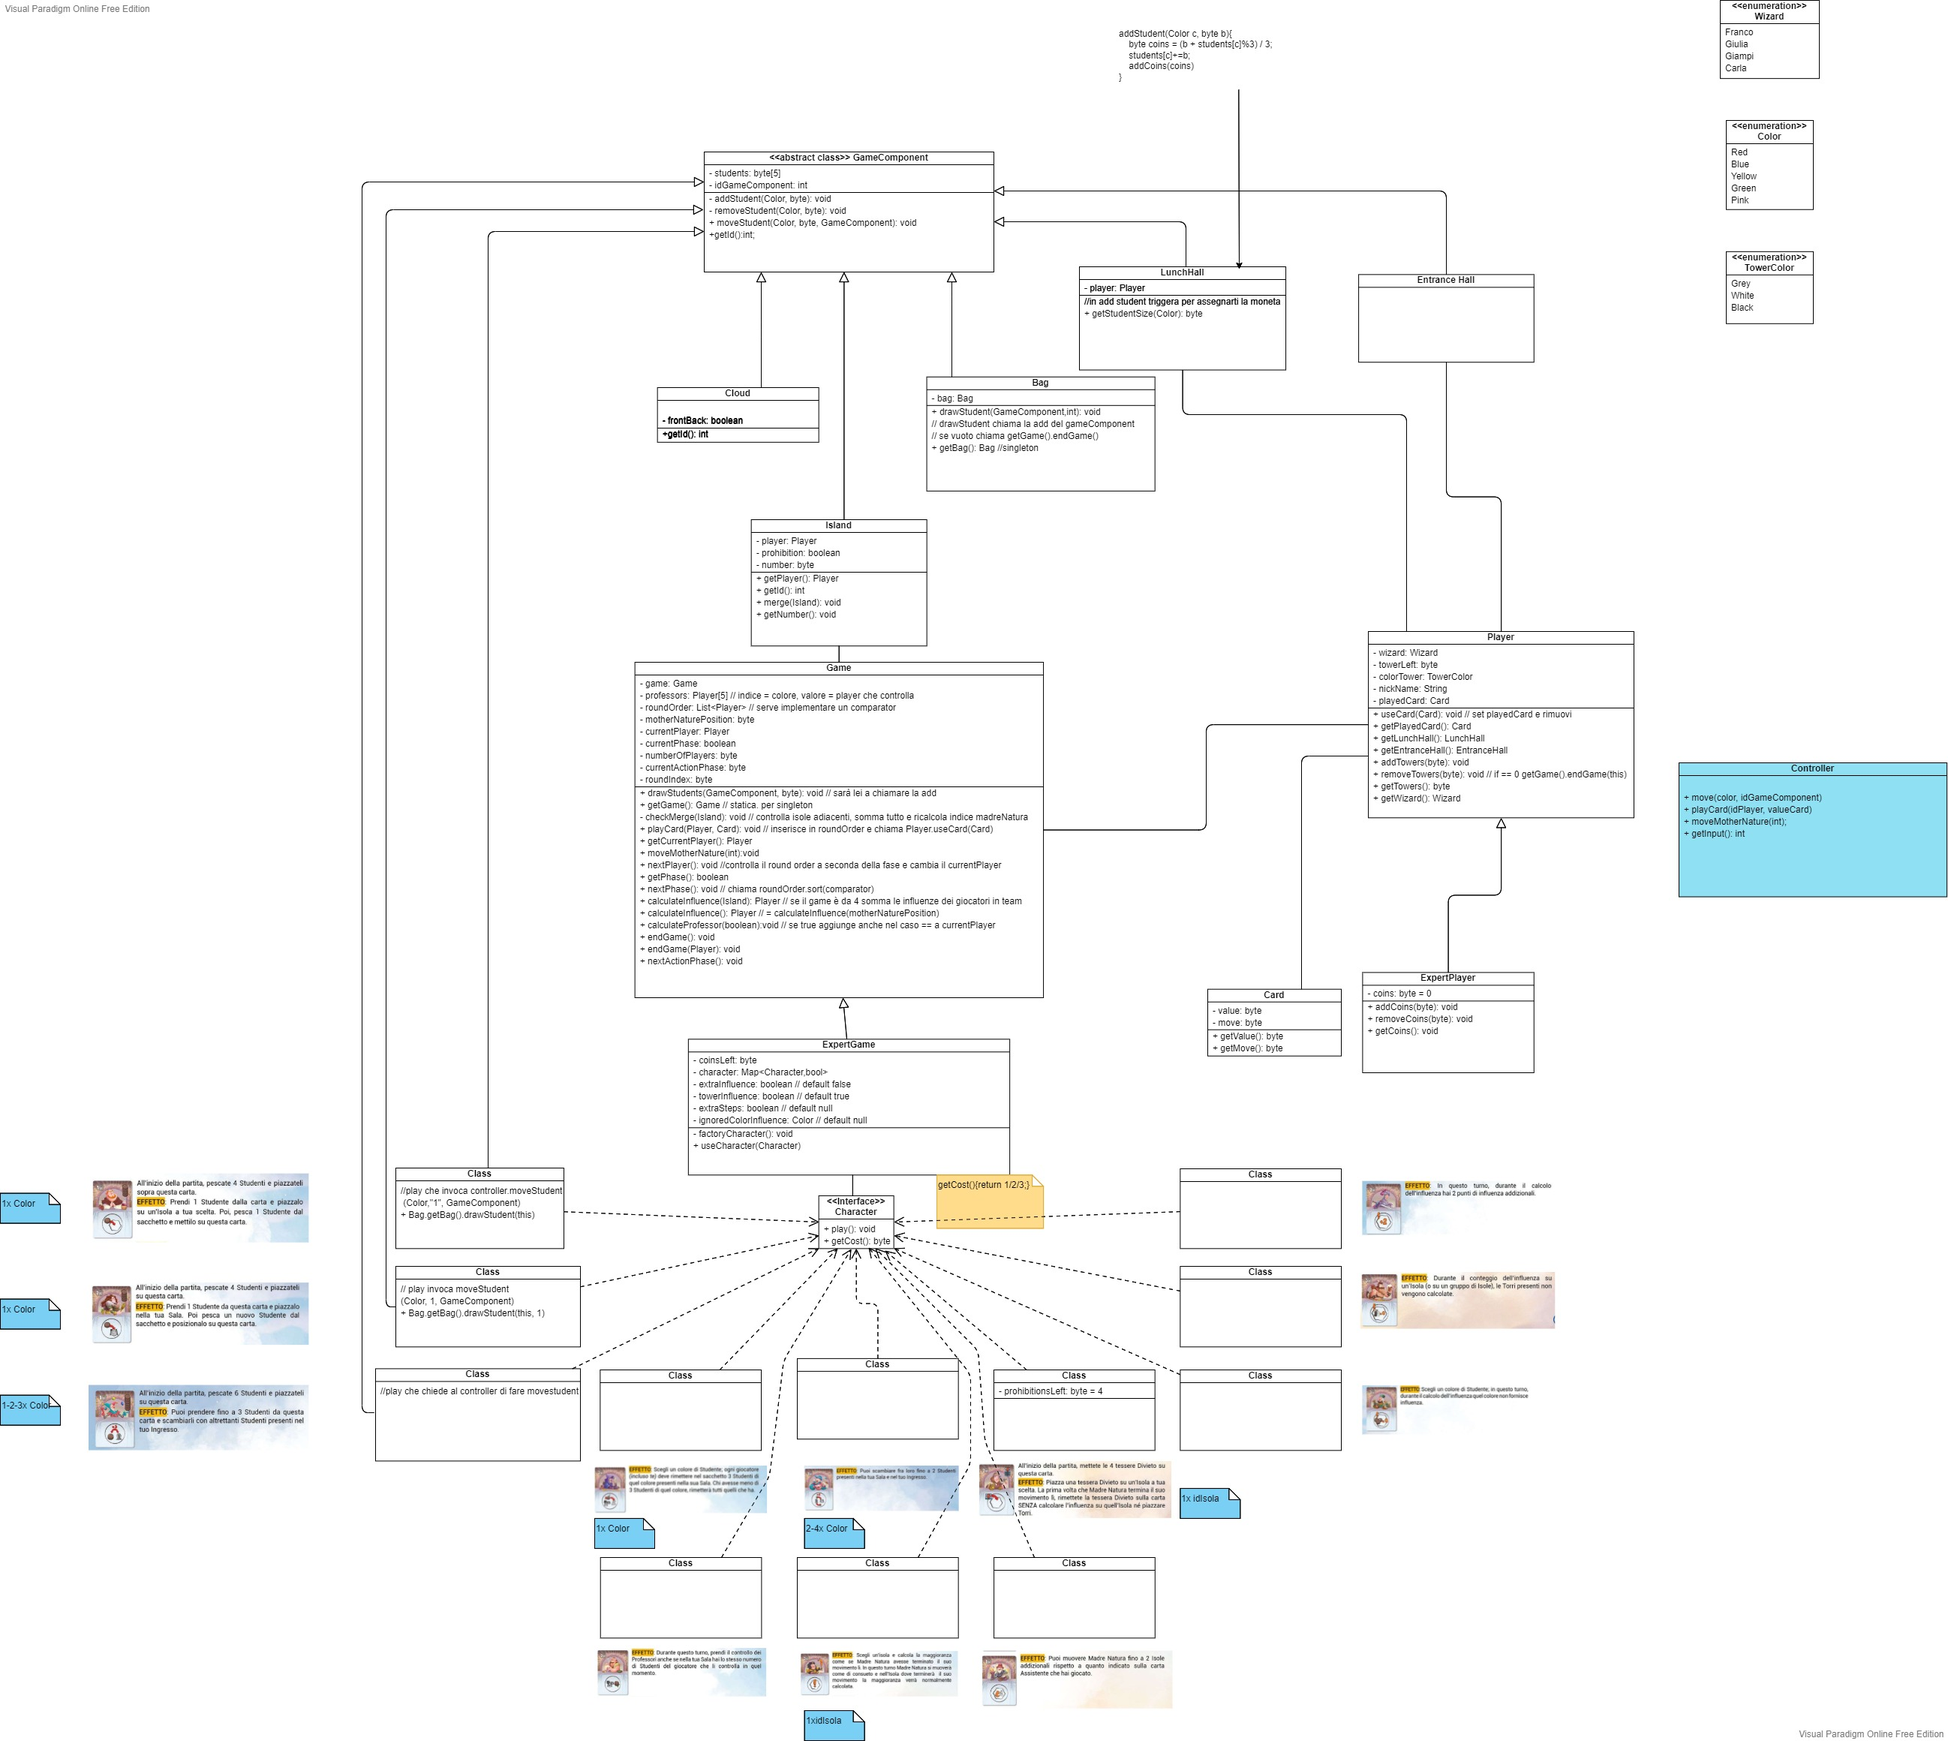
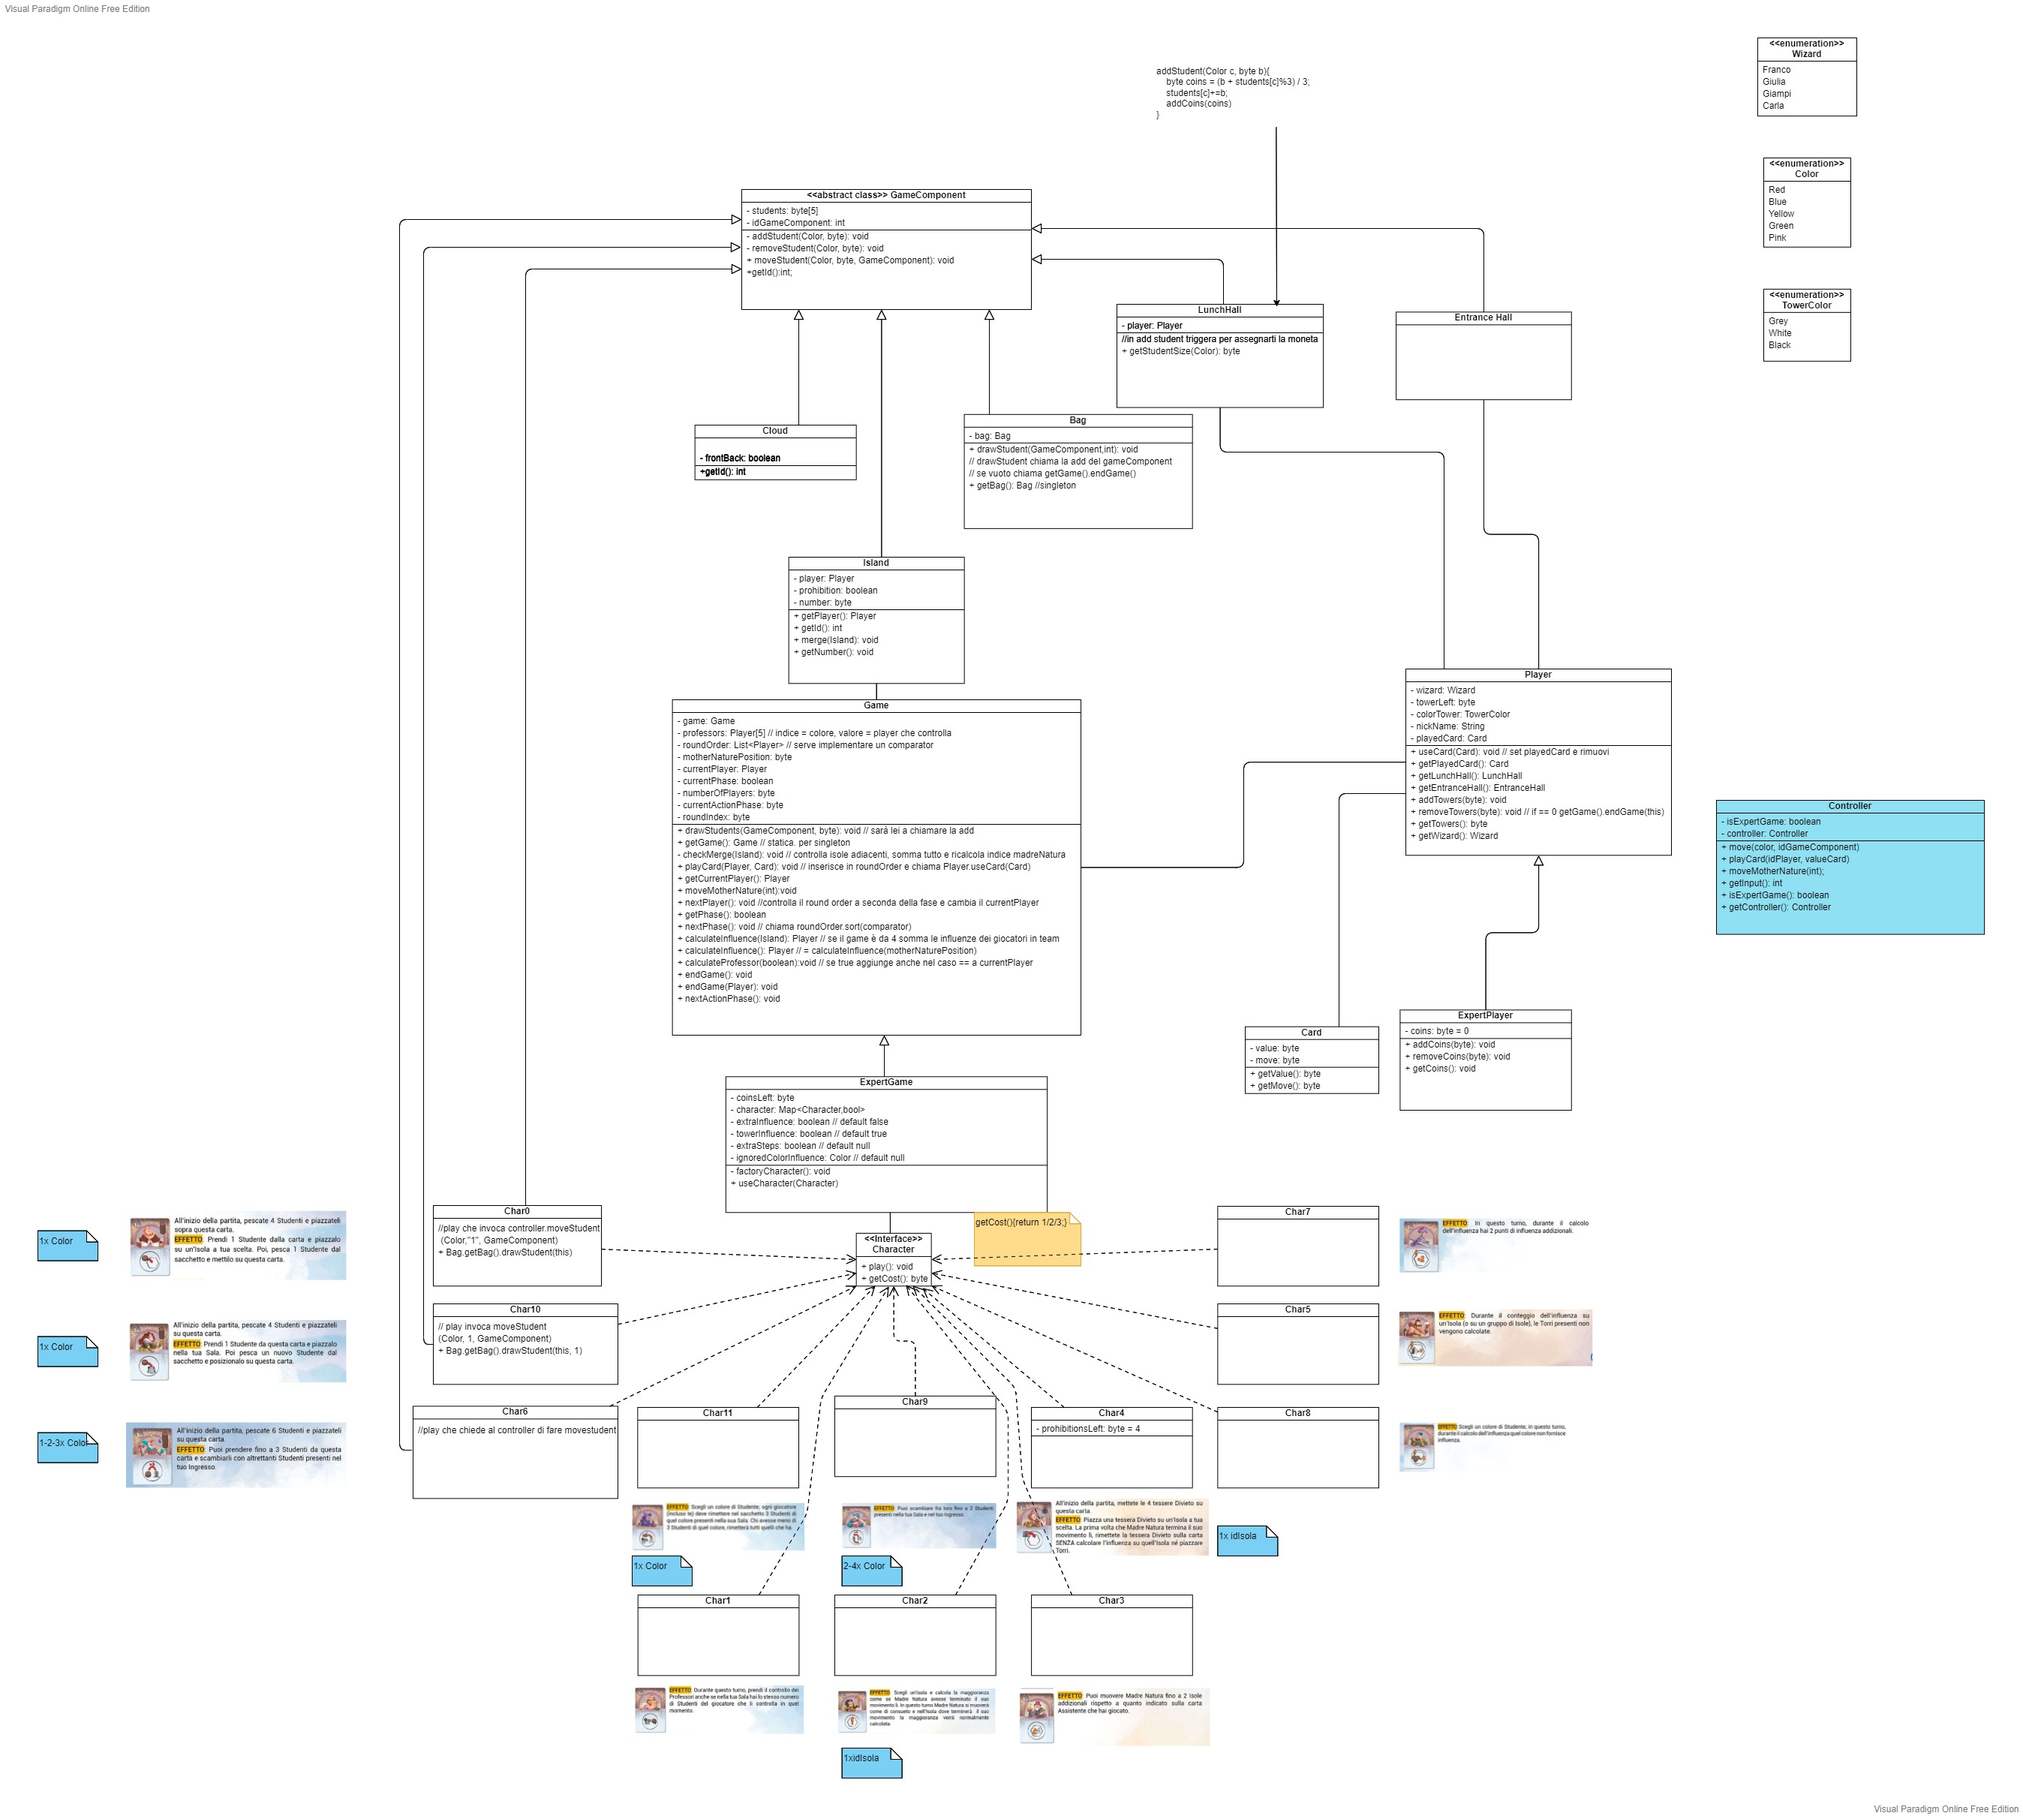
new methods

diff --git a/src/main/java/it/polimi/ingsw/ExpertGame.java b/src/main/java/it/polimi/ingsw/ExpertGame.java
@@ -1,12 +1,68 @@
 package it.polimi.ingsw;
 
+import it.polimi.ingsw.exceptions.NotEnoughCoinsException;
+
 import java.util.Map;
 
-public class ExpertGame extends Game{
+public class ExpertGame extends Game {
     private byte coinsLeft;
-    private Map<Character,Boolean> characters;
+    private Map<Character, Boolean> characters;
     private boolean extraInfluence; //di default falso
     private boolean towerInfluence;// default true
     private boolean extraSteps; //default false
     private Color ignoredColorInfluence;
+
+    public void addCoinsToPlayer(ExpertPlayer player, byte coins) throws NotEnoughCoinsException {
+        if (coinsLeft == 0) throw new NotEnoughCoinsException();
+        else if (coinsLeft < coins) {
+            player.addCoins(coinsLeft);
+            coinsLeft = 0;
+        } else {
+            player.addCoins(coins);
+            coinsLeft -= coins;
+        }
+    }
+
+    public static ExpertGame getGame() {
+        if (game == null)
+            return new ExpertGame();
+        else return (ExpertGame) game;
+    }
+
+    public void addCoins(byte coins) {
+        this.coinsLeft += coins;
+    }
+
+    public boolean isExtraInfluence() {
+        return extraInfluence;
+    }
+
+    public void setExtraInfluence(boolean extraInfluence) {
+        this.extraInfluence = extraInfluence;
+    }
+
+    public boolean isTowerInfluence() {
+        return towerInfluence;
+    }
+
+    public void setTowerInfluence(boolean towerInfluence) {
+        this.towerInfluence = towerInfluence;
+    }
+
+    public boolean isExtraSteps() {
+        return extraSteps;
+    }
+
+    public void setExtraSteps(boolean extraSteps) {
+        this.extraSteps = extraSteps;
+    }
+
+    public Color getIgnoredColorInfluence() {
+        return ignoredColorInfluence;
+    }
+
+    public void setIgnoredColorInfluence(Color ignoredColorInfluence) {
+        this.ignoredColorInfluence = ignoredColorInfluence;
+    }
+
 }

diff --git a/src/main/java/it/polimi/ingsw/LunchHall.java b/src/main/java/it/polimi/ingsw/LunchHall.java
@@ -13,10 +13,7 @@ public class LunchHall extends GameComponent{
     @Override
     public void addStudents(byte color, byte number) {
         super.addStudents(color, number);
-        //if(Controller.getController().isExpert()) {
-        byte coins = (byte) ((number + getStudents()[color]%3) / 3);
-        ((ExpertPlayer)player).addCoins(coins);
-        //}
+        //byte coins = (byte) ((number + getStudents()[color]%3) / 3
     }
 
     public byte getStudentSize(Color color) {

diff --git a/src/main/java/it/polimi/ingsw/character/Char0.java b/src/main/java/it/polimi/ingsw/character/Char0.java
@@ -1,11 +1,17 @@
 package it.polimi.ingsw.character;
 
-public class Char0 implements Character {
-    private byte prohibitionsLeft = 4;
+import it.polimi.ingsw.Bag;
+import it.polimi.ingsw.GameComponent;
+
+public class Char0 extends GameComponent implements Character{
+
+    public Char0(int id) {
+        super(id);
+        Bag.getBag().drawStudent(this, 4);
+    }
 
     @Override
     public void play() {
-        prohibitionsLeft--;
     }
 
     @Override

diff --git a/src/main/java/it/polimi/ingsw/character/Char10.java b/src/main/java/it/polimi/ingsw/character/Char10.java
@@ -1,6 +1,14 @@
 package it.polimi.ingsw.character;
 
-public class Char10 implements Character {
+import it.polimi.ingsw.Bag;
+import it.polimi.ingsw.GameComponent;
+
+public class Char10 extends GameComponent implements Character {
+    public Char10(int id) {
+        super(id);
+        Bag.getBag().drawStudent(this, 4);
+    }
+
     @Override
     public void play() {
 

diff --git a/src/main/java/it/polimi/ingsw/character/Char6.java b/src/main/java/it/polimi/ingsw/character/Char6.java
@@ -1,6 +1,14 @@
 package it.polimi.ingsw.character;
 
-public class Char6 implements Character {
+import it.polimi.ingsw.Bag;
+import it.polimi.ingsw.GameComponent;
+
+public class Char6 extends GameComponent implements Character {
+    public Char6(int id) {
+        super(id);
+        Bag.getBag().drawStudent(this, 6);
+    }
+
     @Override
     public void play() {
 

diff --git a/src/main/java/it/polimi/ingsw/ExpertPlayer.java b/src/main/java/it/polimi/ingsw/ExpertPlayer.java
@@ -14,7 +14,7 @@ public class ExpertPlayer extends Player {
     }
 
     public void removeCoins(byte coins) throws NotEnoughCoinsException {
-        if(coins > this.coins) throw new NotEnoughCoinsException();
+        if (coins > this.coins) throw new NotEnoughCoinsException();
         this.coins -= coins;
     }
 

diff --git a/src/main/java/it/polimi/ingsw/Game.java b/src/main/java/it/polimi/ingsw/Game.java
@@ -3,7 +3,7 @@ package it.polimi.ingsw;
 import java.util.ArrayList;
 
 public class Game {
-    private static Game game;
+    static Game game;
     private Player[] professors;
     private ArrayList<Island> islands;
     private byte motherNaturePosition;

diff --git a/src/main/java/it/polimi/ingsw/character/Char4.java b/src/main/java/it/polimi/ingsw/character/Char4.java
@@ -1,9 +1,11 @@
 package it.polimi.ingsw.character;
 
 public class Char4 implements Character {
+    private byte prohibitionsLeft = 4;
+
     @Override
     public void play() {
-
+        prohibitionsLeft--;
     }
 
     @Override
